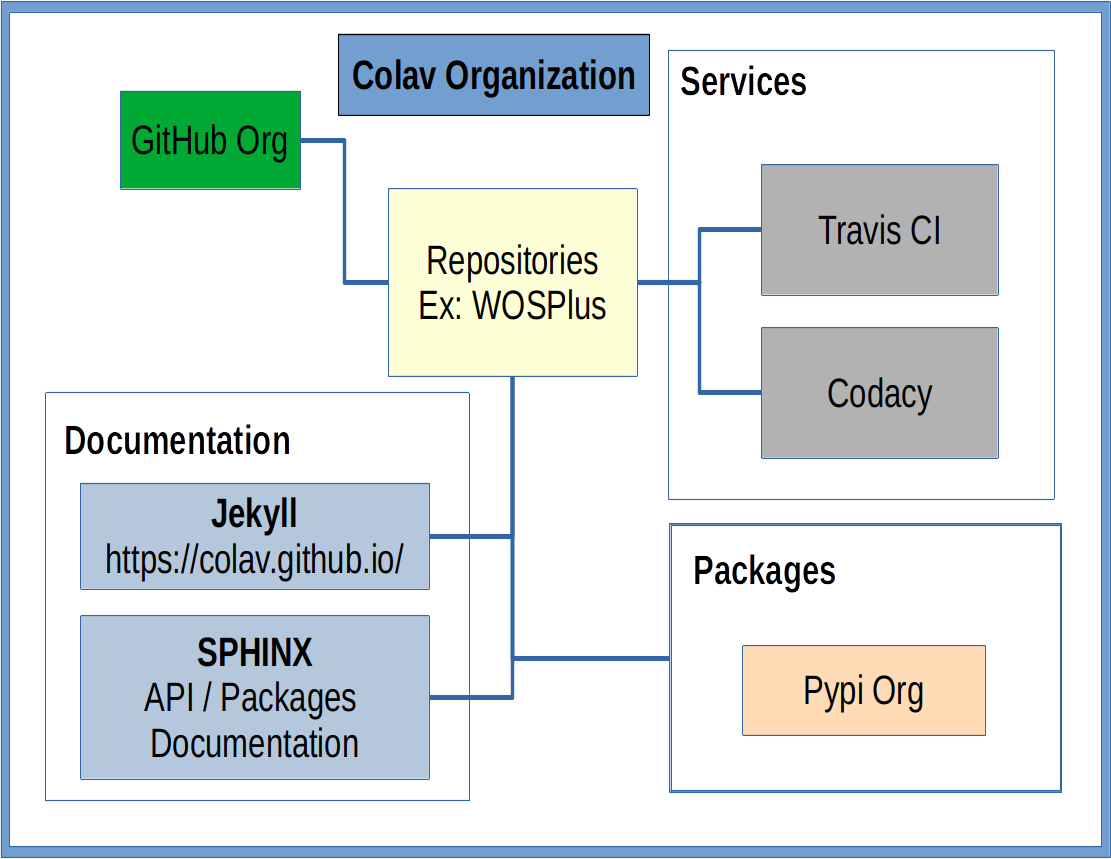
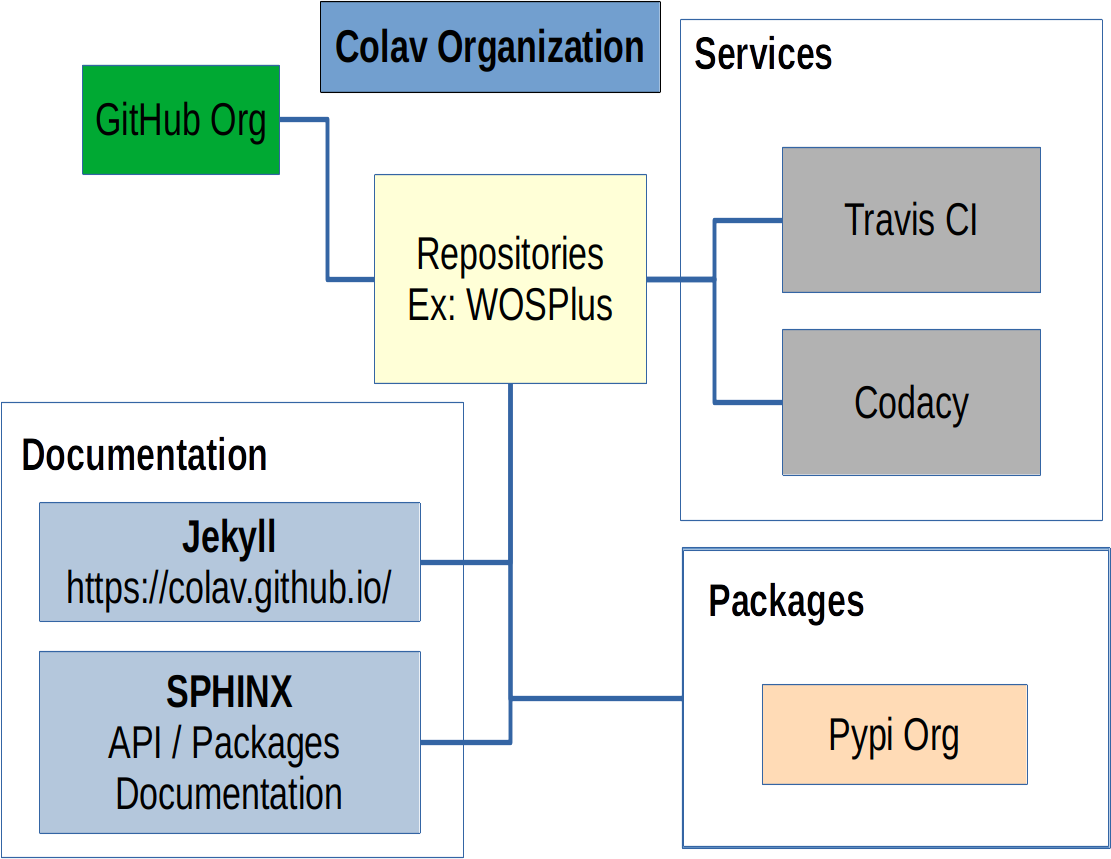
added GSLookUp page and fixed diagrams

Changed region(s): [[0.0, 0.0, 1.0, 0.9988]]

diff --git a/pages/GSLookUp.md b/pages/GSLookUp.md
@@ -1,0 +1,32 @@
+---
+title: GSLookUp
+layout: content
+toc: true
+---
+
+<center>
+<img src="/img/GScholarLogo.png"/>
+</center>
+
+* Table of Contents 
+{:toc}
+<br>
+
+
+# Desciption
+GSLookUp (Google Scholar Lookup) is a package to find papers information in Google Scholar.
+
+<br>
+# Design
+<center>
+<img src="/img/GSLookUpDiagram.png" width="80%" height="60%"/>
+</center>
+
+<br>
+<br>
+
+# Automation and Build Tools 
+* Travis CI TODO
+* Codacy TODO
+* PyPi Package TODO
+* GitHub repository [http://github.com/colav/GSLookUp](http://github.com/colav/GSLookUp)

diff --git a/pages/DevelopmentGuide.md b/pages/DevelopmentGuide.md
@@ -12,6 +12,14 @@ toc: true
 {:toc}
 <br>
 
+# Colav Organization
+<br/><br/>
+<center>
+<img src="/img/ColavDiagram.png" width="80%"/>
+</center>
+<br/><br/>
+
+
 
 # Contributing
 If you want to contribute read carefully this guide and lets to create a fork [https://help.github.com/articles/fork-a-repo/](https://help.github.com/articles/fork-a-repo/)
@@ -56,7 +64,8 @@ def myfunction(arg1, arg2):
     >>> out = myfunction(arg1,arg2)
 '''
 
-
+<br/><br/><br/>
 # Build Monitoring Tools
-Comming soon (Codacy/Travis CI)
+* Travis CI
+* Codacy
 

diff --git a/pages/PDBServer.md b/pages/PDBServer.md
@@ -15,6 +15,8 @@ toc: true
 
 # Desciption
 Package to load papers in MongoDB and to serve the data from mongodb in a endpoint using flask
+PDBLoader(Papers DataBase Loader)
+PDBServer(Papers DataBase Server)
 
 <br>
 # Design
